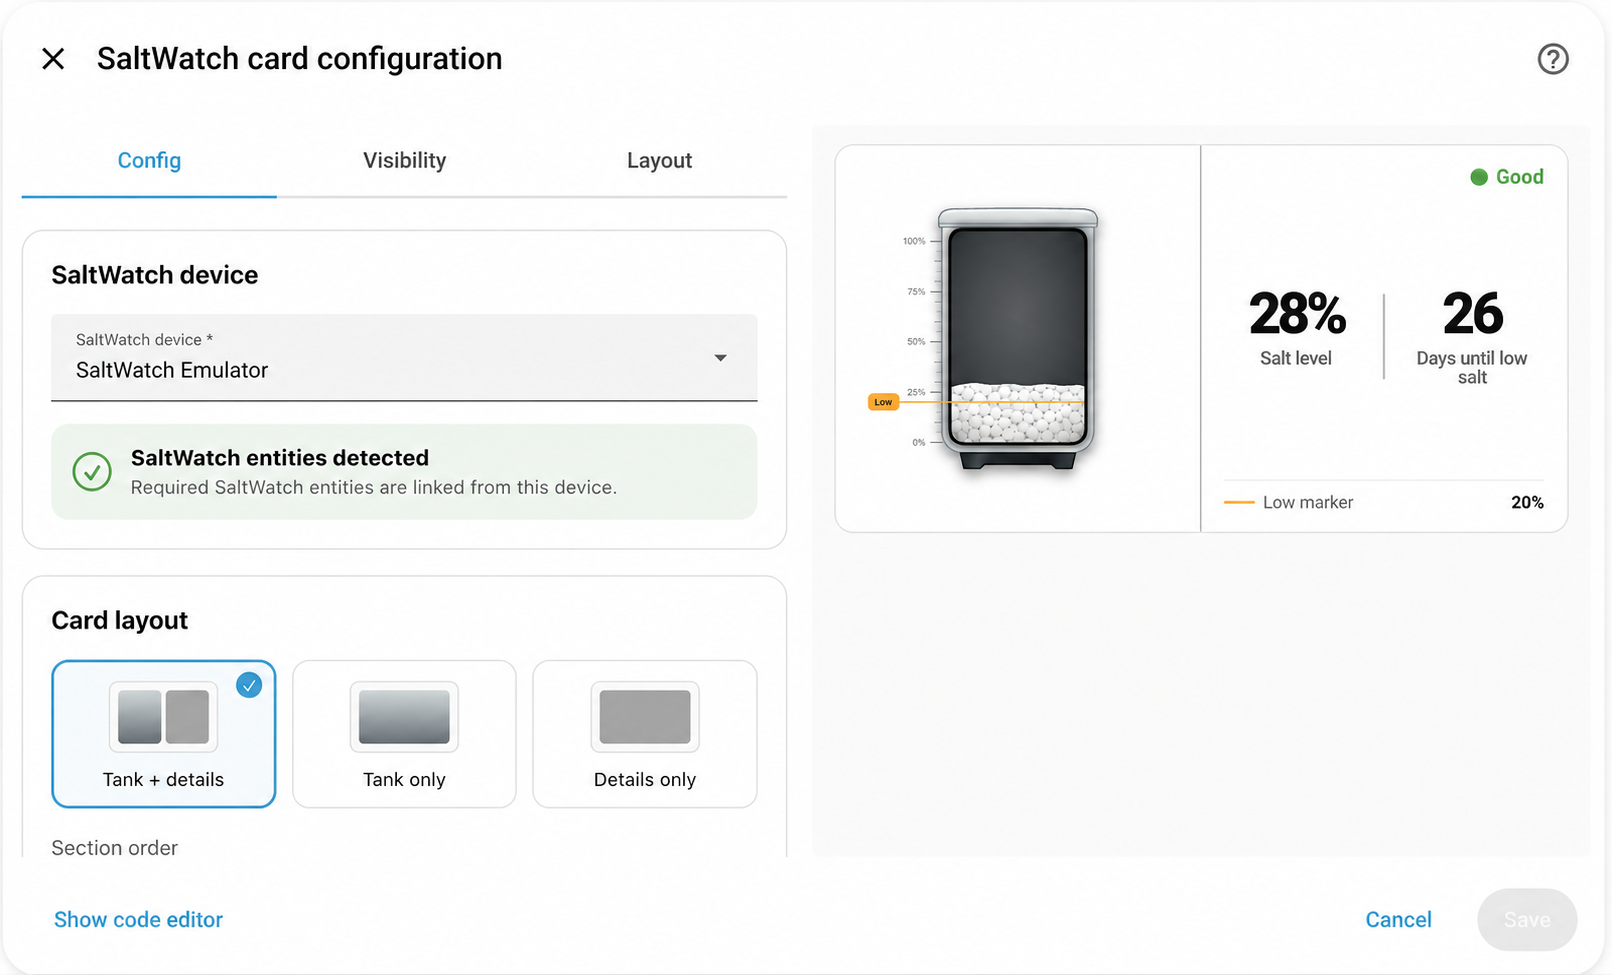
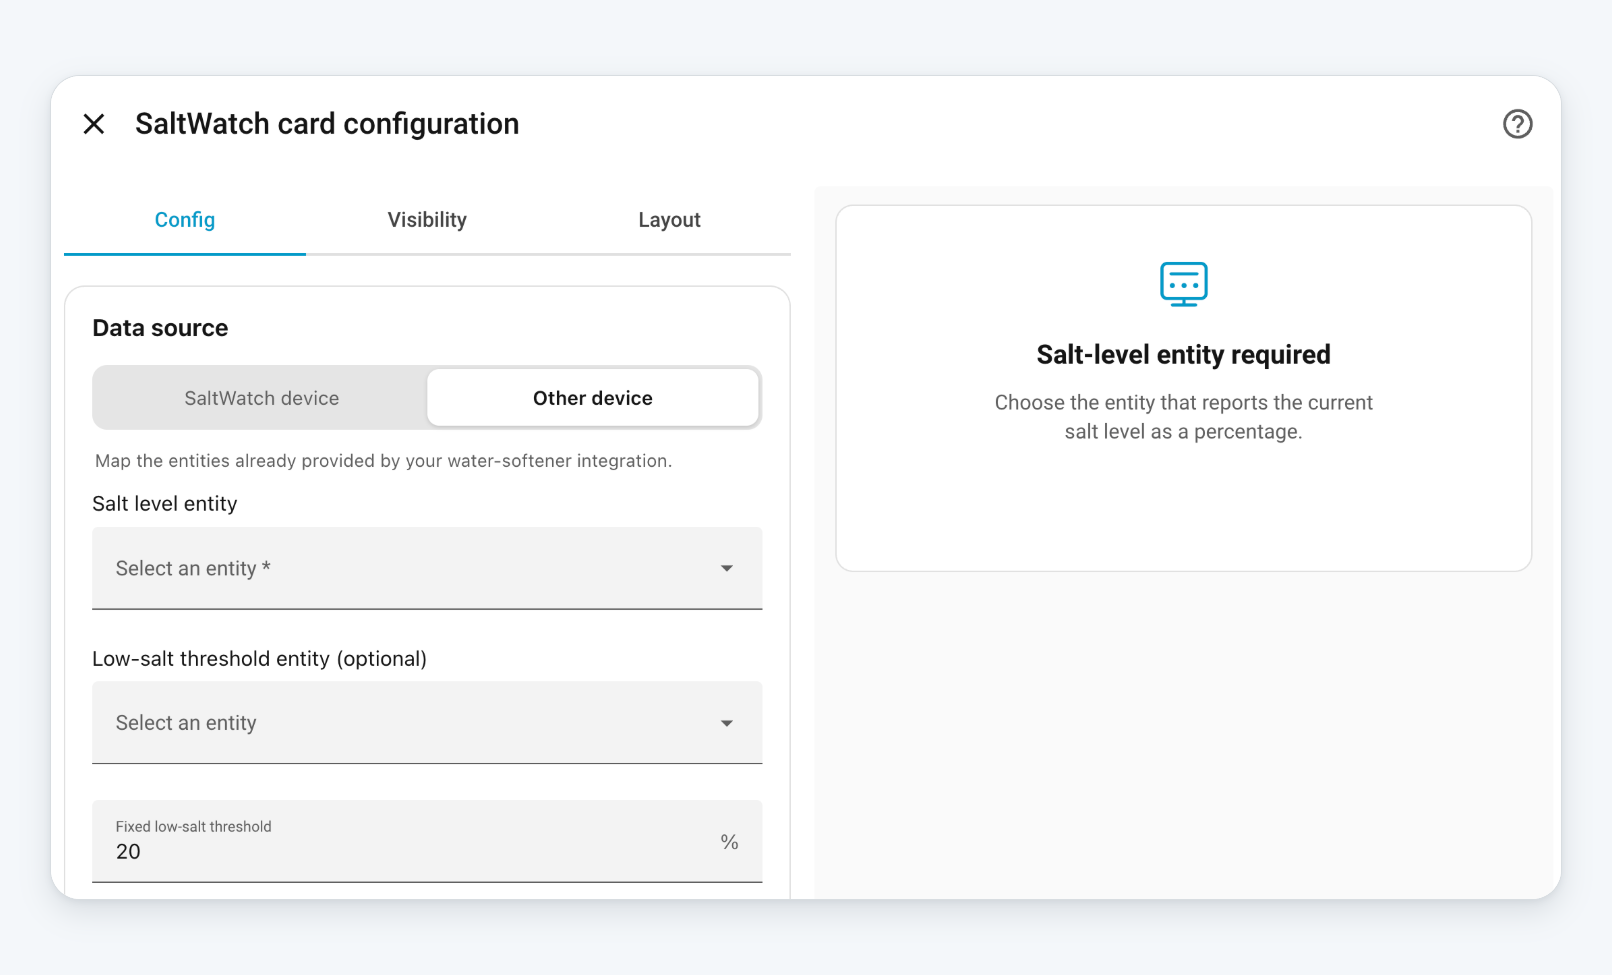
release: v0.6.1

diff --git a/dist/saltwatch-card.js b/dist/saltwatch-card.js
@@ -1500,7 +1500,7 @@ class Fe extends HTMLElement {
     `;
   }
 }
-const Ne = "0.6.0", De = {
+const Ne = "0.6.1", De = {
   version: Ne
 }, A = "saltwatch-card", He = De.version;
 customElements.get(A) || customElements.define(A, Re);

diff --git a/info.md b/info.md
@@ -32,7 +32,7 @@ card shows a concise reason or progress such as `4 of 7 days collected`.
 ## Configure visually
 
 <p align="center">
-  <img src="https://raw.githubusercontent.com/thomasgregg/saltwatch-card/main/images/saltwatch-card-editor.png" alt="SaltWatch Card graphical editor with automatic entity detection, organized settings, and live preview" width="58%">
+  <img src="https://raw.githubusercontent.com/thomasgregg/saltwatch-card/main/images/saltwatch-card-editor.png" alt="SaltWatch Card graphical editor showing the Other device entity-mapping workflow" width="58%">
 </p>
 
 Choose **SaltWatch device** for automatic, rename-safe discovery through Home

diff --git a/README.md b/README.md
@@ -183,7 +183,7 @@ or disabled, the editor lists them explicitly instead of guessing or pairing
 another device. For another device, the salt-level entity is required while
 threshold, status, and forecast mappings are optional.
 
-![SaltWatch Card graphical editor showing automatic entity detection and organized settings](images/saltwatch-card-editor.png)
+![SaltWatch Card graphical editor showing the Other device entity-mapping workflow](images/saltwatch-card-editor.png)
 
 Choose the complete, tank-only, or details-only layout visually. In the
 complete layout, you can place the tank or the details first. The editor also

diff --git a/.github/release-notes/v0.6.1.md b/.github/release-notes/v0.6.1.md
@@ -1,0 +1,14 @@
+# SaltWatch Card 0.6.1
+
+This documentation refresh replaces the old graphical-editor screenshot with
+the real **Other device** entity-mapping workflow introduced in 0.6.0.
+
+## What changed
+
+- Updated the README and HACS description with the current editor UI.
+- Showed the **Data source** selector and the primary entity-mapping fields.
+- Added a clean, rounded presentation frame with even padding and a subtle
+  shadow.
+- Preserved the previous documentation image size of 1612 x 975 pixels.
+
+There are no card behavior or configuration changes in this patch release.
